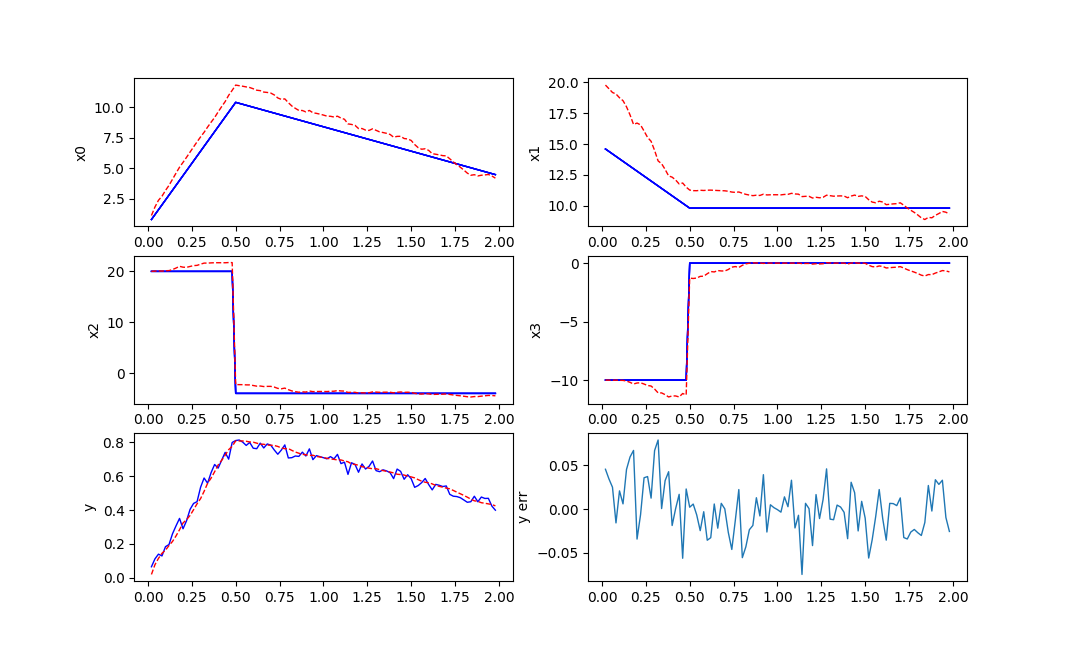
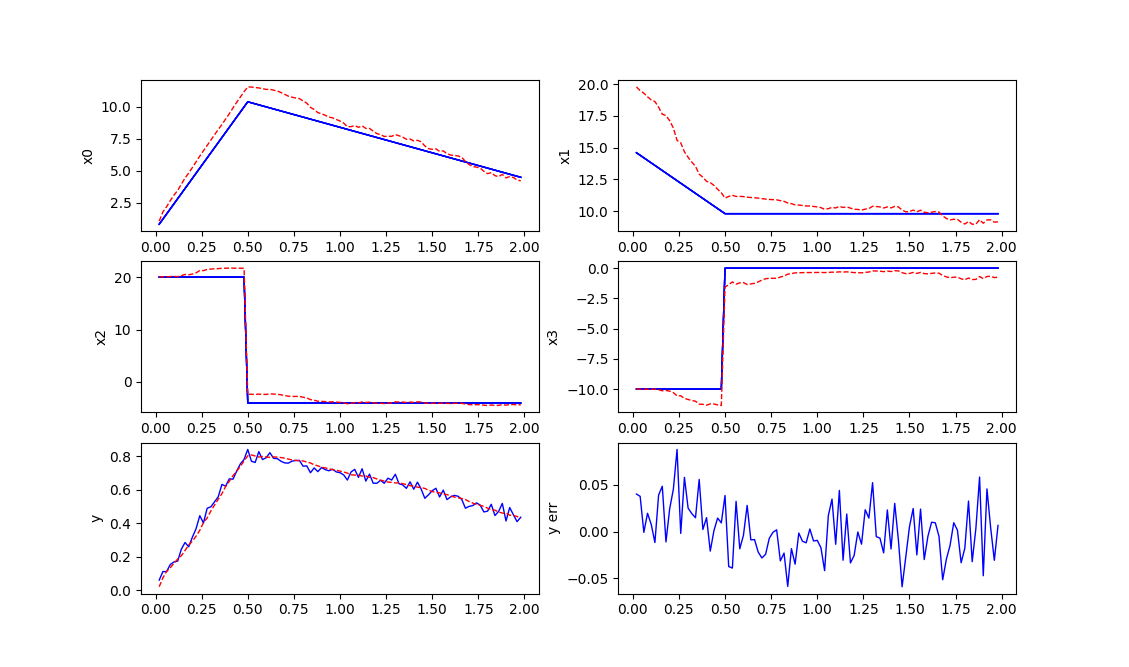
sync

diff --git a/models/bearingsonly.py b/models/bearingsonly.py
@@ -175,7 +175,7 @@ class Eval(EvalBase):
         plt.subplot(3, 2, 5)
         plt.plot(logm.t, logm.y, 'b', linewidth=lw), plt.ylabel('y')
         plt.plot(logp.t, logp.y, 'r--', linewidth=lw)
-        plt.subplot(3, 2, 6), plt.plot(logp.t, logm.y - logp.y, linewidth=lw), plt.ylabel('y err')
+        plt.subplot(3, 2, 6), plt.plot(logp.t, logm.y - logp.y, 'b', linewidth=lw), plt.ylabel('y err')
 
 if __name__ == "__main__":
     pass
